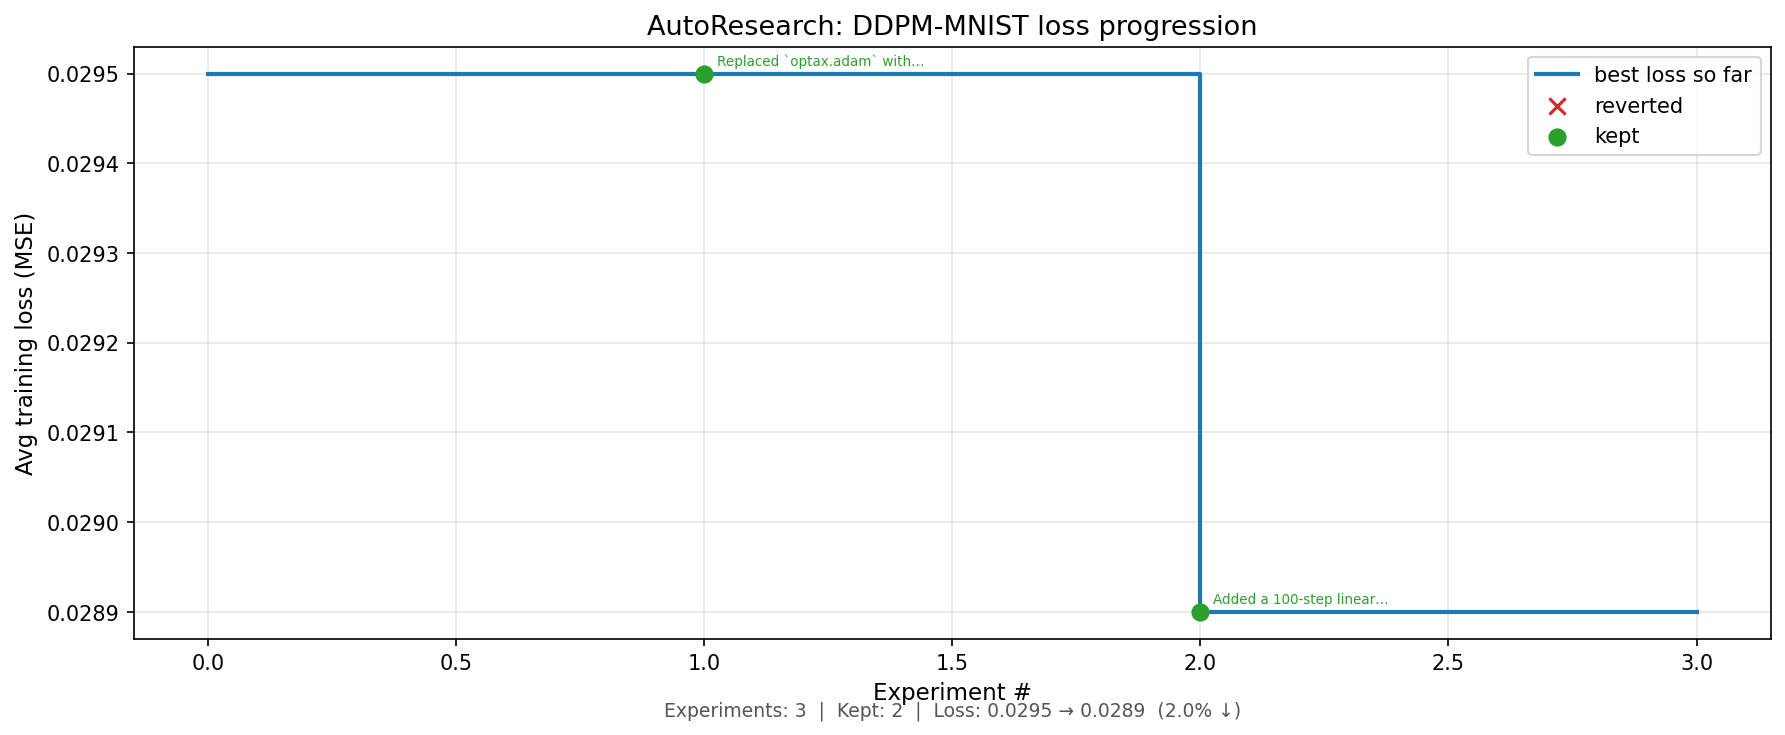
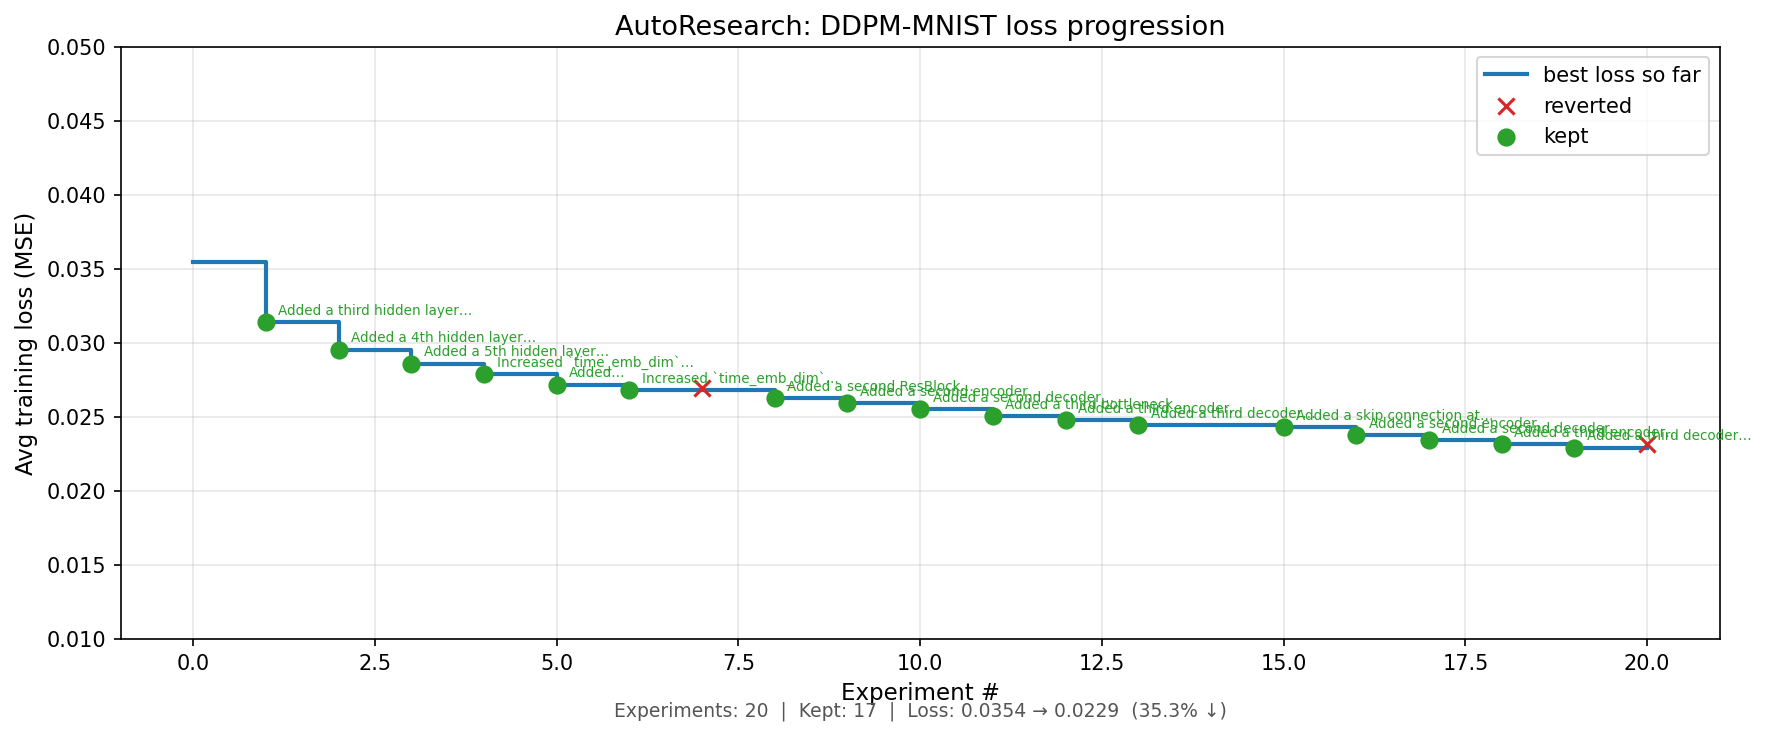
update results of autoresearch (#2)
* autorun: Added a third hidden layer (`t_dense3: Linear(256→256)`) to the time embedding MLP, giving the model a deeper 3-layer projection (sinusoidal→256→256→256) to better condition on the diffusion timestep at minimal parameter cost (~65k extra params).

* autorun: Added a 4th hidden layer (`t_dense4: Linear(256→256)`) to the time embedding MLP, deepening the timestep projection from 3 to 4 layers (sinusoidal→256→256→256→256), following up on the successful 3-layer experiment which gave −0.004 improvement at minimal parameter cost (~65k extra params).

* autorun: Added a 5th hidden layer (`t_dense5: Linear(256→256)`) to the time embedding MLP, extending the projection to sinusoidal→256→256→256→256→256, continuing the pattern of deeper time conditioning that yielded consistent gains at ~65k extra params per layer.

* autorun: Increased `time_emb_dim` from 64 to 128 while keeping the MLP hidden dimension fixed at 256 (instead of scaling as `time_emb_dim * 4`), giving the sinusoidal embedding twice as many frequency components for richer timestep conditioning at minimal parameter cost (~16k extra params in `t_dense1` only).

* autorun: Added `optax.clip_by_global_norm(1.0)` gradient clipping before AdamW to suppress occasional large gradient spikes during early training, which should improve convergence stability and lower the best validation loss achieved within the fixed epoch budget.
[…]

diff --git a/ddpm_lib.py b/ddpm_lib.py
@@ -67,37 +67,75 @@ class SmallUNet(eqx.Module):
     time_emb_dim: int = eqx.field(static=True)
     t_dense1:  eqx.nn.Linear
     t_dense2:  eqx.nn.Linear
+    t_dense3:  eqx.nn.Linear
+    t_dense4:  eqx.nn.Linear
+    t_dense5:  eqx.nn.Linear
     init_conv: eqx.nn.Conv2d
     enc1:      ResBlock
+    enc2:      ResBlock
+    enc3:      ResBlock
     down:      eqx.nn.Conv2d
+    enc_14:    ResBlock
+    enc_14_2:  ResBlock
+    enc_14_3:  ResBlock
     mid:       ResBlock
+    mid2:      ResBlock
+    mid3:      ResBlock
+    dec_14:    ResBlock
+    dec_14_2:  ResBlock
+    dec_14_3:  ResBlock
     dec1:      ResBlock
+    dec2:      ResBlock
+    dec3:      ResBlock
     norm_out:  eqx.nn.GroupNorm
     out_conv:  eqx.nn.Conv2d
 
-    def __init__(self, base_channels=16, time_emb_dim=64, *, key):
+    def __init__(self, base_channels=16, time_emb_dim=256, *, key):
         C = base_channels
-        D = time_emb_dim * 4
+        D = 256  # fixed projection dim; time_emb_dim controls sinusoidal basis width only
         self.time_emb_dim = time_emb_dim
-        ks = iter(jax.random.split(key, 8))
+        ks = iter(jax.random.split(key, 23))
         self.t_dense1  = eqx.nn.Linear(time_emb_dim, D, key=next(ks))
         self.t_dense2  = eqx.nn.Linear(D, D, key=next(ks))
+        self.t_dense3  = eqx.nn.Linear(D, D, key=next(ks))
+        self.t_dense4  = eqx.nn.Linear(D, D, key=next(ks))
+        self.t_dense5  = eqx.nn.Linear(D, D, key=next(ks))
         self.init_conv = eqx.nn.Conv2d(1, C, 3, padding=1, key=next(ks))
         self.enc1      = ResBlock(C,     C,     D, key=next(ks))
+        self.enc2      = ResBlock(C,     C,     D, key=next(ks))
+        self.enc3      = ResBlock(C,     C,     D, key=next(ks))
         self.down      = eqx.nn.Conv2d(C, C*2, 3, stride=2, padding=1, key=next(ks))
+        self.enc_14    = ResBlock(C*2,   C*2,   D, key=next(ks))
+        self.enc_14_2  = ResBlock(C*2,   C*2,   D, key=next(ks))
+        self.enc_14_3  = ResBlock(C*2,   C*2,   D, key=next(ks))
         self.mid       = ResBlock(C*2,   C*2,   D, key=next(ks))
+        self.mid2      = ResBlock(C*2,   C*2,   D, key=next(ks))
+        self.mid3      = ResBlock(C*2,   C*2,   D, key=next(ks))
+        self.dec_14    = ResBlock(C*4,   C*2,   D, key=next(ks))
+        self.dec_14_2  = ResBlock(C*2,   C*2,   D, key=next(ks))
+        self.dec_14_3  = ResBlock(C*2,   C*2,   D, key=next(ks))
         self.dec1      = ResBlock(C*2+C, C,     D, key=next(ks))
+        self.dec2      = ResBlock(C,     C,     D, key=next(ks))
+        self.dec3      = ResBlock(C,     C,     D, key=next(ks))
         self.norm_out  = eqx.nn.GroupNorm(8, C)
         self.out_conv  = eqx.nn.Conv2d(C, 1, 1, key=next(ks))
 
     def __call__(self, x, t):
         t_emb = sinusoidal_embedding(t, self.time_emb_dim)
-        t_emb = self.t_dense2(jax.nn.silu(self.t_dense1(t_emb)))
+        t_emb = self.t_dense5(jax.nn.silu(self.t_dense4(jax.nn.silu(self.t_dense3(jax.nn.silu(self.t_dense2(jax.nn.silu(self.t_dense1(t_emb)))))))))
         x  = self.init_conv(x)
-        h1 = self.enc1(x, t_emb)
-        h  = self.mid(self.down(h1), t_emb)
+        h1 = self.enc3(self.enc2(self.enc1(x, t_emb), t_emb), t_emb)
+        h2 = self.enc_14_3(self.enc_14_2(self.enc_14(self.down(h1), t_emb), t_emb), t_emb)
+        h  = self.mid(h2, t_emb)
+        h  = self.mid2(h, t_emb)
+        h  = self.mid3(h, t_emb)
+        h  = self.dec_14(jnp.concatenate([h, h2], axis=0), t_emb)
+        h  = self.dec_14_2(h, t_emb)
+        h  = self.dec_14_3(h, t_emb)
         h  = jax.image.resize(h, (h.shape[0], 28, 28), method='nearest')
         h  = self.dec1(jnp.concatenate([h, h1], axis=0), t_emb)
+        h  = self.dec2(h, t_emb)
+        h  = self.dec3(h, t_emb)
         return self.out_conv(jax.nn.silu(self.norm_out(h)))
 
 

diff --git a/train.py b/train.py
@@ -186,7 +186,10 @@ def main():
         ],
         boundaries=[warmup_steps],
     )
-    optimizer  = optax.adamw(lr_schedule, weight_decay=1e-4)
+    optimizer  = optax.chain(
+        optax.clip_by_global_norm(1.0),
+        optax.adamw(lr_schedule, weight_decay=1e-4),
+    )
     opt_state  = optimizer.init(eqx.filter(model, eqx.is_array))
     train_step = make_train_step(optimizer, sched, T)
     key, loader_key = jax.random.split(key)

diff --git a/plot_experiments.py b/plot_experiments.py
@@ -81,6 +81,7 @@ def plot(entries: list[dict], out: str):
     ax.set_xlabel("Experiment #", fontsize=11)
     ax.set_ylabel("Avg training loss (MSE)", fontsize=11)
     ax.set_title("AutoResearch: DDPM-MNIST loss progression", fontsize=13)
+    ax.set_ylim([0.01, 0.05])
     ax.legend(fontsize=10)
     ax.grid(True, alpha=0.3)
 

diff --git a/program.md b/program.md
@@ -24,9 +24,28 @@ Explore these roughly in order of expected impact:
 
 ### 2. Model Capacity
 - ✗ FAILED **base_channels 16→32** (crash/timeout): ~4x parameter count likely exceeded memory or time budget; skip 64 as well
-- ✗ FAILED **Self-attention at bottleneck (14×14, 32ch, single-head)** (crash/timeout): adding `SelfAttention2d` at the bottleneck crashed; likely memory/compute overhead of attention on 14×14 maps (196 tokens) with 32 channels is too large for the budget. Try 7×7 spatial resolution instead if re-attempting.
-- Deeper time embedding MLP (extra hidden layer) — low parameter cost, worth trying
-- Additional ResBlock in the encoder or decoder path
+- ✗ FAILED **Self-attention at bottleneck (14×14, 32ch, single-head)** (crash/timeout): adding `SelfAttention2d` at the bottleneck crashed; likely memory/compute overhead of attention on 14×14 maps (196 tokens) with 32 channels is too large for the budget. 7×7 full resolution level also failed (+0.000251) — if re-attempting attention, try at existing bottleneck with 1 head and channel projection to reduce memory.
+- ✓ KEPT **Deeper time embedding MLP (3-layer: sinusoidal→256→256→256)** (0.035414→0.031385, −0.004029): adding `t_dense3: Linear(256→256)` gave a solid gain at ~65k extra params. Time conditioning is a high-leverage axis.
+- ✓ KEPT **4-layer time MLP (sinusoidal→256→256→256→256)** (0.031385→0.029530, −0.001855): another ~65k params, consistent improvement — deeper time MLPs keep helping.
+- ✓ KEPT **5-layer time MLP (sinusoidal→256→256→256→256→256)** (0.029530→0.028565, −0.000965): gains are diminishing (~1/2 the delta of the 4-layer step) but still positive.
+- ✓ KEPT **Wider time embedding (time_emb_dim 64→128, MLP hidden fixed at 256)** (0.028565→0.027869, −0.000696): more sinusoidal frequency components gave another solid gain at only ~16k extra params. Returns still positive but slowing.
+- ✓ KEPT **Wider time embedding (time_emb_dim 128→256)** (0.027157→0.026774, −0.000383): doubling again at ~32k extra params still helped, though delta is ~half the 64→128 step. Diminishing returns confirmed but width axis now near exhaustion.
+  - Follow-on: time_emb_dim 512 — one more doubling to test if returns go negative; low priority
+  - Follow-on: 6-layer time MLP — depth vs. width tradeoff; may be more efficient than wider embeddings at this point
+- ✓ KEPT **Second ResBlock at bottleneck (mid2: ResBlock(C*2, C*2, D))** (0.026774→0.026249, −0.000526): doubling bottleneck depth at 14×14 resolution at ~26k extra params gave a consistent small gain. Bottleneck capacity is still a productive axis.
+- ✓ KEPT **Second encoder ResBlock at 28×28 (enc2: ResBlock(C, C, D))** (0.026249→0.025906, −0.000343): adding depth before the stride-2 downsample gave a small but consistent gain (~26k extra params). Full-resolution encoder depth helps skip connection quality. Returns are diminishing but positive across all depth additions.
+- ✓ KEPT **Second decoder ResBlock at 28×28 (dec2: ResBlock(C, C, D))** (0.025906→0.025487, −0.000419): symmetric to enc2, adding depth after skip-connection merge continued the trend — slightly larger gain than enc2 step, suggesting decoder refinement at full resolution is at least as valuable. All four depth additions (mid2, enc2, dec2) have been consistently positive.
+- ✓ KEPT **Third bottleneck ResBlock (mid3: ResBlock(C*2, C*2, D))** (0.025487→0.025035, −0.000453): tripling bottleneck depth continued to help at ~26k extra params — delta slightly smaller than mid2 (−0.000526) but still positive. Bottleneck depth has now been probed to three layers with diminishing but consistently positive returns.
+- ✓ KEPT **Third encoder ResBlock at 28×28 (enc3: ResBlock(C, C, D))** (0.025035→0.024740, −0.000295): tripling encoder depth before downsampling continued the trend at ~26k extra params — delta smaller than dec2 (−0.000419) but consistently positive.
+- ✓ KEPT **Third decoder ResBlock at 28×28 (dec3: ResBlock(C, C, D))** (0.024740→0.024415, −0.000325): tripling decoder depth after skip-connection merge continued the trend at ~26k extra params — delta (−0.000325) slightly larger than enc3 (−0.000295), consistent with dec matching or exceeding enc at each step.
+- ✓ KEPT **U-Net skip at 14×14 (enc_14: ResBlock(C*2, C*2, D) + dec_14: ResBlock(C*4, C*2, D))** (0.024415→0.024273, −0.000142): completing a proper U-Net skip at the intermediate resolution gave a small positive gain — delta is the smallest yet (~0.00014), but still consistent. The 14×14 skip mirrors the existing 28×28 skip.
+- ✓ KEPT **Second encoder ResBlock at 14×14 (enc_14_2: ResBlock(C*2, C*2, D))** (0.024273→0.023756, −0.000517): adding a second pre-bottleneck layer at 14×14 gave a larger gain than expected (~0.00052 vs ~0.00014 for the skip itself) — notably bigger than the 28×28 enc3/dec3 additions (~0.0003). Deepening from 1→2 layers at this resolution is high-leverage. Running best: 0.023756.
+- ✓ KEPT **Second decoder ResBlock at 14×14 (dec_14_2: ResBlock(C*2, C*2, D))** (0.023756→0.023403, −0.000353): symmetric to enc_14_2; continued the pattern of decoder matching encoder gains. Delta (~0.000353) is smaller than enc_14_2 (~0.000517) but still solid — larger than 28×28 enc3/dec3 additions (~0.0003). Running best: 0.023403.
+- ✓ KEPT **Third encoder ResBlock at 14×14 (enc_14_3: ResBlock(C*2, C*2, D))** (0.023403→0.023132, −0.000271): matching 28×28's 3-layer encoder depth at 14×14 gave a positive gain (~26k extra params) — delta (~0.000271) is smaller than dec_14_2 (~0.000353) but still above the 28×28 floor.
+- ✓ KEPT **Third decoder ResBlock at 14×14 (dec_14_3: ResBlock(C*2, C*2, D))** (0.023132→0.022902, −0.000230): symmetric to enc_14_3; delta (~0.000230) is smaller than enc_14_3 (~0.000271), reversing the usual dec≥enc pattern — returns at 14×14 depth are now clearly diminishing. Running best: 0.022902.
+  - ✗ FAILED **7×7 resolution level** (0.022902→0.023153, +0.000251): full stride-2 downsample from 14×14 + enc_7/dec_7 skip + bottleneck moved to 7×7 regressed slightly. Moving the bottleneck to 7×7 likely discards too much spatial detail for simple 28×28 digit shapes — the 14×14 bottleneck is already aggressive compression. Direction (full 7×7 level with relocated bottleneck) exhausted. Note: self-attention at the existing bottleneck resolution (without moving it) remains untried — try at 14×14 with reduced head count/channels to avoid the prior OOM crash.
+  - Follow-on: fourth ResBlocks at 28×28 (enc4/dec4) — low priority; returns clearly diminishing (~0.0003/step)
+  - Follow-on: fourth bottleneck ResBlock (`mid4`) — low priority; returns clearly diminishing
 
 ### 3. Optimizer & Learning Rate
 - ✓ KEPT **AdamW weight_decay=1e-4** (0.0301→0.0295, −0.0006): modest but consistent gain; regularization helps even in short runs.
@@ -39,11 +58,12 @@ Explore these roughly in order of expected impact:
 - Slightly higher lr (4e-4) with warmup + cosine — small models can often train faster with higher peak lr
 
 ### 4. Loss Formulation
-- **SNR-weighted loss**: weight each step by min(SNR, 5) / SNR (Hang et al. 2023). Lower priority now that cosine schedule is ruled out; still worth trying with linear schedule.
-- **v-prediction** parameterization instead of ε-prediction: model predicts v = √ᾱ·ε − √(1−ᾱ)·x₀
+- ✗ FAILED **Min-SNR-γ weighting (γ=5)** (0.026774→0.026950, +0.000176): scaling each timestep's MSE by `min(SNR(t), 5) / SNR(t)` to focus learning on harder low-SNR steps regressed slightly. The linear β schedule's SNR distribution is apparently already well-matched to this model's capacity — re-weighting doesn't help. Direction exhausted.
+- ✗ FAILED **v-prediction** (0.024415→0.174841, +0.150427): severe regression — the linear β schedule on MNIST is well-conditioned enough that ε-prediction works fine. v-prediction's gradient-balancing benefit only matters in harder regimes (larger images, complex schedules). Direction exhausted.
 
 ### 5. Training Tricks
-- **Gradient clipping** (e.g. global norm ≤ 1.0) — can stabilize early training
+- ✓ KEPT **Gradient clipping `clip_by_global_norm(1.0)`** (0.027869→0.027157, −0.000713): suppresses early gradient spikes, consistent small gain. Current best: 0.022902.
+  - Follow-on: tighter clip (0.5) — may squeeze out more stability benefit
 - Larger batch size (256 or 512) if memory allows
 
 ## Strategy Notes

diff --git a/README.md b/README.md
@@ -112,10 +112,14 @@ Generates a figure showing loss progression across experiments — kept changes 
 
 After 500 epochs, the model generates handwritten digit images from pure Gaussian noise via the reverse diffusion chain (before AutoResearch).
 
-![DDPM samples before AutoResearch](samples_before_autorun.png)
+<img src="samples_before_autorun.png" width="300"/>
 
 ## AutoResearch Results
 
 Loss progression across autorun experiments (generated by `plot_experiments.py`):
 
 ![AutoResearch loss progression](autorun_results.png)
+
+Samples after AutoResearch:
+
+<img src="samples_after_autoresearch1.png" width="300"/>
